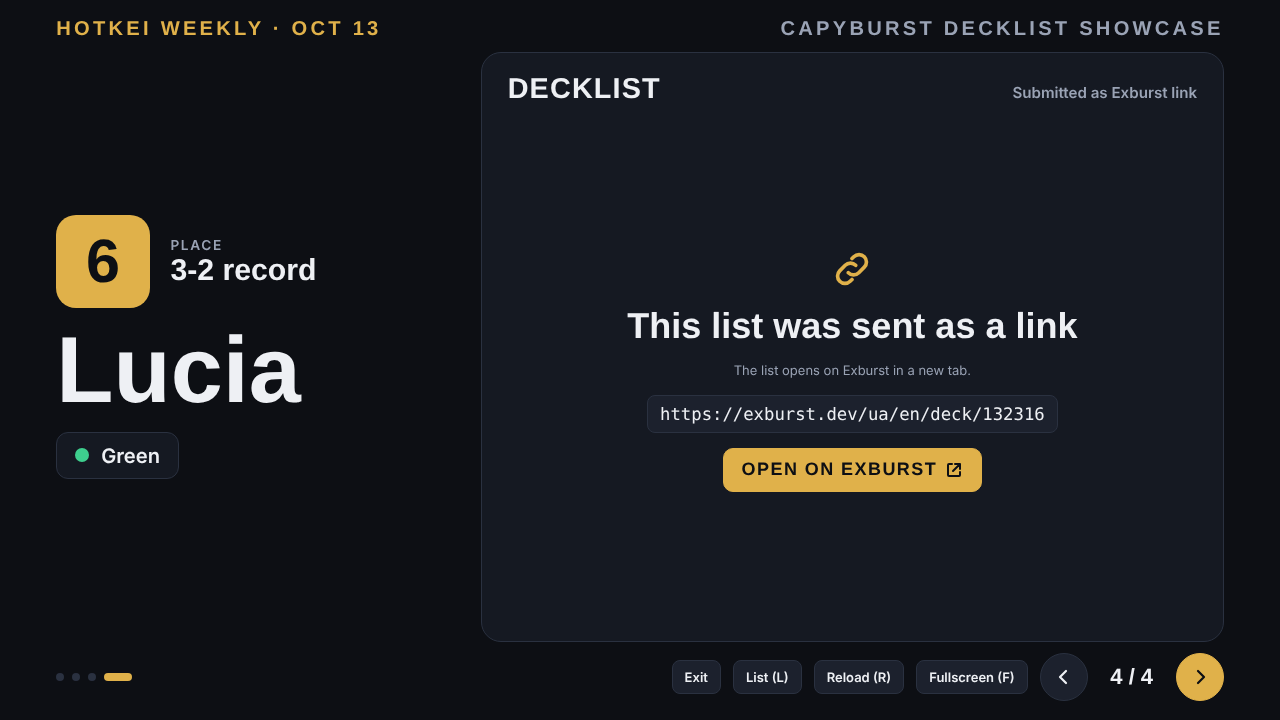
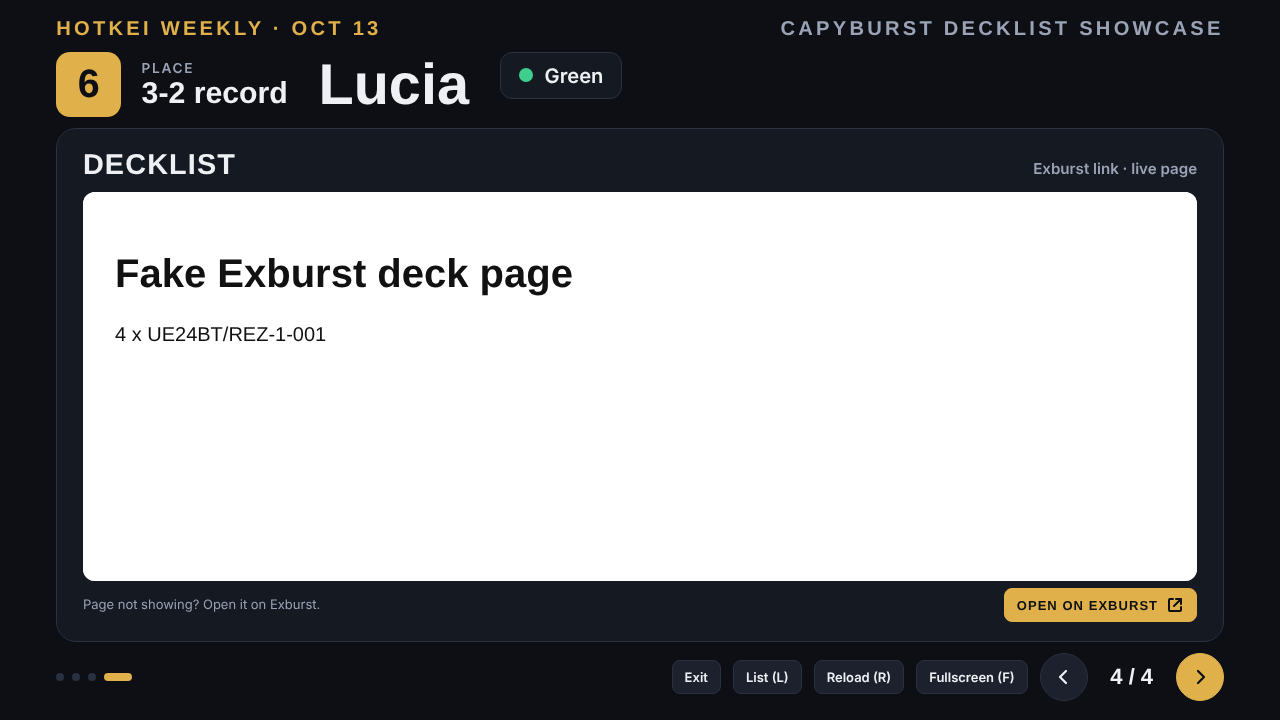
v0.1.5: show Exburst deck links live inside the presentation slide
Claude-Session: https://claude.ai/code/session_01AVt5hWhybi9vEcXTd5Rvm1

diff --git a/js/views/present.js b/js/views/present.js
@@ -124,15 +124,36 @@ export async function presentView(eventId, startIndex = -1) {
     return { meta: 'Submitted as image · Z to zoom', body };
   }
 
+  // Only real https://exburst.dev pages are ever embedded (the server checks this too).
+  function embeddable(url) {
+    try { const u = new URL(url); return u.protocol === 'https:' && u.hostname === 'exburst.dev'; } catch (err) { return false; }
+  }
+
   function linkPanel(e) {
+    const url = e.deck.content;
+    const openBtn = h('a', { class: 'btn small primary', href: url, target: '_blank', rel: 'noopener noreferrer' }, 'Open on Exburst ', icon('ext'));
+    if (!embeddable(url)) {
+      return {
+        meta: 'Submitted as Exburst link',
+        body: h('div', { class: 'pres-linkbox' },
+          icon('link'),
+          h('h3', { text: 'This list was sent as a link' }),
+          h('p', { class: 'hint', text: 'The list opens on Exburst in a new tab.' }),
+          h('code', { class: 'link-url', text: url }),
+          h('a', { class: 'btn primary', href: url, target: '_blank', rel: 'noopener noreferrer' }, 'Open on Exburst ', icon('ext')))
+      };
+    }
     return {
-      meta: 'Submitted as Exburst link',
-      body: h('div', { class: 'pres-linkbox' },
-        icon('link'),
-        h('h3', { text: 'This list was sent as a link' }),
-        h('p', { class: 'hint', text: 'The list opens on Exburst in a new tab.' }),
-        h('code', { class: 'link-url', text: e.deck.content }),
-        h('a', { class: 'btn primary', href: e.deck.content, target: '_blank', rel: 'noopener noreferrer' }, 'Open on Exburst ', icon('ext')))
+      meta: 'Exburst link · live page',
+      body: h('div', { class: 'embed' },
+        h('iframe', {
+          class: 'embed-frame', src: url, title: 'Decklist on Exburst',
+          referrerpolicy: 'no-referrer', loading: 'eager',
+          sandbox: 'allow-scripts allow-same-origin allow-popups allow-popups-to-escape-sandbox allow-forms'
+        }),
+        h('div', { class: 'embed-bar' },
+          h('span', { class: 'hint', text: 'Page not showing? Open it on Exburst.' }),
+          openBtn))
     };
   }
 
@@ -182,7 +203,7 @@ export async function presentView(eventId, startIndex = -1) {
       h('div', { class: 'pres-top' },
         h('span', { class: 'ev', text: evName + ' · ' + shortDate(evDate) }),
         h('span', { class: 'app', text: appName() })),
-      h('div', { class: 'pres-main' + (d.type === 'photo' && photos.get(d.deckId)?.ratio >= 1.2 ? ' wide' : '') },
+      h('div', { class: 'pres-main' + ((d.type === 'photo' && photos.get(d.deckId)?.ratio >= 1.2) || (d.type === 'link' && embeddable(d.content)) ? ' wide' : '') },
         h('div', { class: 'pres-info' },
           h('div', { class: 'pres-place' },
             h('div', { class: 'pres-rank', text: String(e.rank) }),

diff --git a/css/styles.css b/css/styles.css
@@ -302,3 +302,9 @@ input[type="date"].input::-webkit-date-and-time-value { text-align: left; }
 @media (pointer: coarse) { .btn.small { min-height: 44px; } }
 @media (max-width: 760px) { .pres-main.wide .pres-info { flex-wrap: wrap; gap: 8px 14px; } .pres-main.wide .pres-name { font-size: clamp(28px, 9vw, 44px); } }
 .zoom-cap { position: absolute; left: 16px; top: 12px; font-family: var(--font-head); font-weight: 700; font-size: 20px; letter-spacing: 0.06em; color: var(--text); background: rgba(13,15,20,0.78); padding: 6px 12px; border-radius: 8px; }
+
+/* Exburst link slides: the live page fills the stage. */
+.embed { flex: 1; min-height: 0; display: flex; flex-direction: column; gap: 1vh; }
+.embed-frame { flex: 1; width: 100%; min-height: 0; border: 0; border-radius: 12px; background: #fff; }
+.embed-bar { display: flex; align-items: center; justify-content: space-between; gap: 12px; flex-wrap: wrap; }
+@media (max-width: 760px) { .embed-frame { min-height: 52dvh; } }

diff --git a/TECHNICAL_CHANGELOG.md b/TECHNICAL_CHANGELOG.md
@@ -1,5 +1,10 @@
 # Technical changelog
 
+## 0.1.5
+- `present.js`: `linkPanel` incrusta `<iframe class="embed-frame">` si `embeddable(url)` (https + hostname `exburst.dev`); `sandbox="allow-scripts allow-same-origin allow-popups allow-popups-to-escape-sandbox allow-forms"` (sin `allow-top-navigation`), `referrerpolicy="no-referrer"`. Fallback de caja con link si el host no es válido. `.pres-main.wide` también para links. No hay forma fiable de detectar el bloqueo X-Frame-Options desde JS, por eso el botón de respaldo siempre está visible.
+- Pruebas e2e: +1 (iframe, sandbox, tamaño, botón de respaldo); `newPage` intercepta `https://exburst.dev/**` con una página falsa. Total 84.
+- Probado a mano por el usuario: Exburst permite incrustarse (archivo de prueba aparte).
+
 ## 0.1.4
 - `player.js`: `draw()`/`drawPicker()` devuelven arrays con `null`; `replaceChildren(...arr)` convertía `null` en el texto "null". Ahora `.filter(Boolean)` en las 7 llamadas.
 - `present.js`: `showMissing` (oculto por defecto); `ensurePhoto` mide la proporción (`p.ratio`) antes de pintar y usa `.pres-main.wide` si ratio >= 1.2; `.catch` encadenado (el `throw` por MIME inválido no llegaba al manejador de error del mismo `.then`); caption en `.pres-zoom`; la diapositiva de link muestra `.link-url`.

diff --git a/docs/GUIA_USUARIO.md b/docs/GUIA_USUARIO.md
@@ -35,7 +35,7 @@ El panel muestra cuántas listas llevan y cuándo se borra cada torneo. *Mine on
 ![Editar torneo](screenshots/07-edit-desktop.png)
 
 ### 5. Presentar y grabar
-Pulsa **Present**. Primero verás el **listado por posiciones** con el nombre y el deck de cada jugador (solo los que enviaron lista; con **Show without list** de la barra de abajo puedes ver también a los demás, atenuados). Haz clic en un jugador para mostrar su decklist; con **List (L)** vuelves al listado.
+Pulsa **Present**. Si un jugador envió un link de Exburst, su slide muestra la página de Exburst dentro de la presentación (con botón *Open on Exburst* de respaldo). Primero verás el **listado por posiciones** con el nombre y el deck de cada jugador (solo los que enviaron lista; con **Show without list** de la barra de abajo puedes ver también a los demás, atenuados). Haz clic en un jugador para mostrar su decklist; con **List (L)** vuelves al listado.
 
 ![Listado](screenshots/10-present-standings.png)
 

diff --git a/CHANGELOG.md b/CHANGELOG.md
@@ -1,5 +1,9 @@
 # Changelog
 
+## 0.1.5
+- **Listas enviadas como link de Exburst:** ahora la presentación muestra la página de Exburst dentro del slide (a pantalla ancha, con el jugador en una franja arriba), en vez de un botón. Debajo queda "Open on Exburst" por si la página no carga o pide iniciar sesión. Solo se incrusta `https://exburst.dev`. La página incrustada no puede mover ni redirigir tu presentación.
+- Aviso: si una persona usa Exburst con sesión iniciada y tú no, es posible que veas distinto; lo ideal es probar el link antes de grabar. Si haces clic dentro de la página incrustada, el teclado deja de cambiar de slide hasta que pulses un botón de la barra de abajo o fuera del recuadro.
+
 ## 0.1.4
 Cambios a partir de una revisión de diseño.
 - **Corregido:** la pantalla del jugador mostraba la palabra "null" encima de "Find your name" en torneos abiertos. Ya no aparece (tampoco tras Refresh).
